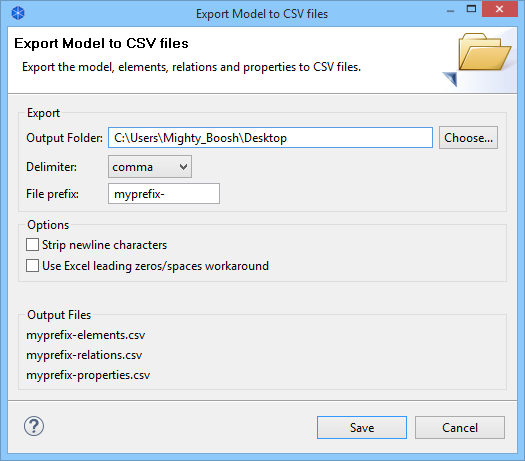
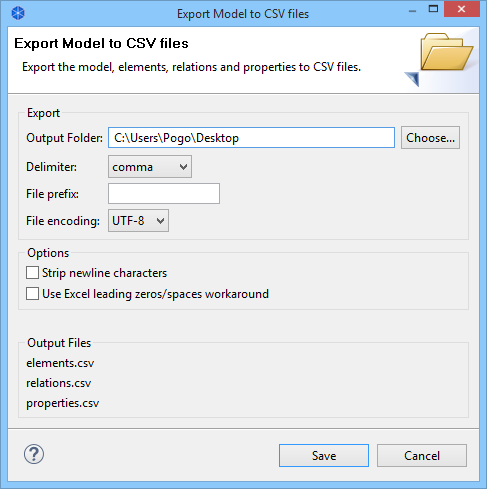
Update help for new CSV export option

Changed region(s): [[0.0, 0.0, 0.9856, 0.6377], [0.0, 0.6681, 0.9856, 0.9718], [0.9856, 0.0, 1.0, 0.0304]]

diff --git a/com.archimatetool.help/help/Text/exporting.html b/com.archimatetool.help/help/Text/exporting.html
@@ -29,6 +29,25 @@
     <p>The CSV field format for relations is - "ID","Type", "Name", "Documentation", "Source", "Target"</p>
     <p>The CSV field format for elements is - "ID", "Key", "Value"</p>
     
+    <h3>Export Options</h3>
+    <p><strong>Output Folder</strong><br/>
+    Select the folder for the output files.</p>
+    
+    <p><strong>Delimiter</strong><br/>
+    Select the CSV field delimiter character - comma, semicolon, or tab.</p>
+
+    <p><strong>File prefix</strong><br/>
+    Provide an optional prefix to add to the file names. For example, "MyModel-" will change the file names to "MyModel-elements.csv", "MyModel-relations.csv", and "MyModel-properties.csv".</p>
+
+    <p><strong>File encoding</strong><br/>
+    Select the file encoding to use - ANSI or UTF-8. Some programs prefer one or the other file encoding.</p>
+
+    <p><strong>Strip newline characters</strong><br/>
+    If selected will remove all newline characters from multi-line text such as documentation.</p>
+
+    <p><strong>Use Excel leading zeros/spaces workaround</strong><br/>
+    If selected will surround text starting with a zero or space with a quote marks so that the data imports correctly into Excel.</p>
+
     <br/>
     
     <h2>Importing CSV Data into a Model</h2>
